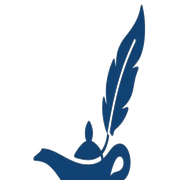
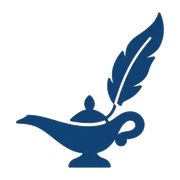
feat:完成favicon

Changed region(s): [[0.0833, 0.0278, 0.9167, 1.0]]

diff --git a/src/app/layout.tsx b/src/app/layout.tsx
@@ -6,6 +6,10 @@ export const metadata: Metadata = {
   title: 'Free Writing Prompt Generator',
   description:
     'Get instant writing prompts to spark creative ideas. Explore story starters across many genres to overcome writer\'s block and start writing now.',
+  icons: {
+    icon: '/favicon.ico',
+    apple: '/apple-touch-icon.png',
+  },
 };
 
 export default function RootLayout({
